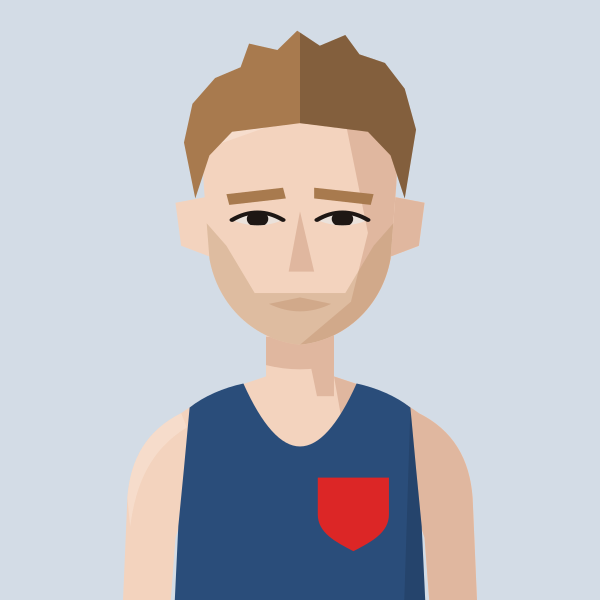
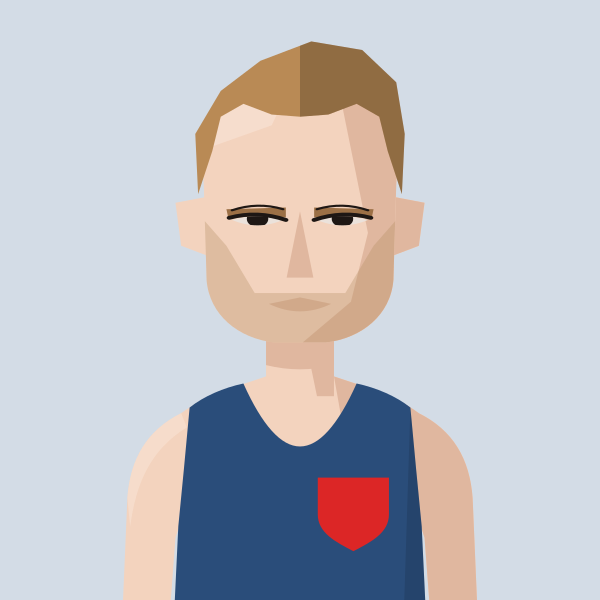
Redraw Frank Tickner portrait
Claude-Session: https://claude.ai/code/session_01MgmDWhFqnSSnP4iBLKXUZC

diff --git a/files/index.html b/files/index.html
@@ -887,7 +887,7 @@ const portraitFile=(name,club)=>{const k=normalizeNameForCompare(name||'').repla
 const portraitClubOf=(name,clubs)=>{for(const c of clubs||[]){if(c&&portraitFile(name,c))return c;}return null;}; /* first of these clubs we have a portrait for */
 // Athlete header figure: superstar portrait if we have one, else a grey runner in the club vest, else the plain vest icon
 // Changes whenever any portrait changes (set by tools/build_og.py), so browsers fetch fresh images instead of old cached ones
-const PORTRAIT_V='3c568e51';const PORTRAIT_WOMEN='abbey-brooke,abbie-bulbulian,adele-prince,aimee-hargreaves,aisling-ahern,alex-brown,alex-gandee,alex-marginean,alex-miller,alexa-parker,alexandra-barbour,alice-braham,alice-bridger-morales,alice-crane,alice-martin,alice-reed,alice-smith,alison-purnell,alison-thomson,amelia-pettitt,amy-clements,andrea-barber,anika-schwarze-chintapatla,anna-garnier,anna-garnier-hw,anna-sharp,annabel-hobday,annabelle-hadlow,anne-hegvold,annmarie-seymour,ava-mcandie,becky-briggs,bethan-goddard,bethanie-murray,bethany-brown,betsy-griffiths,billie-mcclosky,camilla-barden,caoimhe-nic-fhogartaigh,carolyne-baxter,catherine-bryson,catherine-eastham,catherine-kandie,cathy-ansell,charlotte-griffiths,chloe-beckett,chloe-tighe,chrissie-wellington,claire-grima,clara-pettit,clare-elms,clare-pauzers,dillan-quinn,dorchie-cockerell,eilidh-hide,elinor-skinner,eliza-grant,elizabeth-apsley,elizabeth-stavreski,ella-fennelly,ella-king-powrie,ella-may-hards,ella-newton,ellen-weir,ellie-brown,ellie-freeden,eloise-bull,emilie-arnoux,emily-barrett,emily-bradley,emily-lowery,emily-robbins,emma-bond,emma-gordon,emma-howsham,emma-lord,emma-rowland,estle-viljoen,evie-warren,felicity-cole,felicity-harrison,felicity-hayward,fi-maddocks,fiona-clark,fiona-de-mauny,florence-wiggins,gabby-collison,gabriel-reynolds,gemma-newport,genevieve-blanch,georgia-curry,georgie-bruinvels,georgie-fenn,georgie-furze,georgie-grgec,gina-galbraith,grace-leyland,grace-richardson,hannah-edwards,hannah-english,hayley-munn,hayley-munn-cc,heather-statham,heather-statham-cc,helen-alsop,helena-corbin,helena-keenan,holly-nixon,holly-pan,imogen-mackie,imogen-wolsey,iona-cousland,isabel-bradley,isabel-brinsden,isabel-hodder,isabelle-pickett,jennifer-nandi,jennifer-smith,jess-reed,jess-saunders,jess-winfield,jessica-davies,jessica-lowe,jodie-favell,jon-hobbs,josephine-rhodes,julia-bleasdale,julia-wedmore,juliet-hodder,juliette-clark,jurgita-levertaviciute,justine-lynch,karen-fenner,karen-xiang,karina-box,kate-axford,kate-williams,kathy-sharpe,katie-ellen-french,katie-good,katie-snowden,katy-hedgethorne,kitty-shepherd-cross,kristina-popadich,lara-bromilow,lara-mangan,laura-goodson,laura-miles,lauren-major,lea-adamson,lily-newton,lisa-bailey,lisa-thomas,lisa-thomas-hw,lizzie-goldie-scot,louise-cooper,lucy-jones,lucy-macalister,lucy-peters,lydia-blackmore,lydia-gallyer-barnett,maddie-mastrolonardo,maddy-whitman,maeve-kenny,margaret-coogan,martina-conner,mary-james,mary-setyabule,matilde-lomba,megan-gildea,mel-wilkins,mhairi-hall,mimi-corden-lloyd,molly-oconnor,molly-smith,monika-gajek,naomi-lenane,natalie-beadle,natalie-seymour,natasha-lodge,niamh-thompson,nicky-hayes,nicola-cartlidge,nicola-douglas,nikki-haines,nikki-sturzaker,nina-mills,olivia-papaioannou,olivia-stillman,orna-mcginley,pamela-mchutchon,patricia-walker,patrizia-gnoato,penny-oliver,rachel-brown,rebecca-barrow,rebekah-edgar,rosie-powell,ruby-carter,ruby-whyte-wilding,ruby-woolfe,sally-urquhart,sally-young,sally-young-slh,sam-whiting,samantha-munday,sarah-astin,sarah-dewhirst,sarah-grover,sarah-hanley,sarah-holt,sarah-murphy,sarah-palmer,sarah-palmer-ran,sarah-riceman,sarah-young,saron-haileselase,serena-carter,sophie-cowper,sophie-harris,sophie-hicks,sophie-tooley,stacey-ward,steph-hewitt,steph-mccall,steph-mccall-cc,steph-mccall-slh,steph-mitchell,suzanne-swaine,suze-spalding,suzie-harvey,suzy-whatmough,syreeta-stracey,teresa-murphy,tilly-heaton,tilly-heaton-bel,tish-jones,vic-cartwright,vicky-clarke,vicky-edwards,victoria-barthelmess,victoria-buck,vikki-filsell,zoe-doyle,zoe-macdonald,zuzana-nemeckova';const PORTRAIT_MEN='aaron-wilson,abdulla-elsadig,adam-leane,adrian-major,adrien-royer,alan-black,alan-mead,alex-brecker,alex-bruce-littlewood,alex-gutteridge,alex-harris,alex-howard,alex-janiaud,alex-lee,alex-lennon,alex-mills,alex-milne,alex-morales,alex-robinson,alex-yee,alexander-marks,amittai-ben-israel,andrew-cumine,andrew-green,andrew-penney,andrew-perfect,andrew-simms,andrew-warburton,andrius-jaksevicius,andy-coley-maud,andy-coley-maud-cc,andy-fyfe,andy-north,andy-paton,andy-weir,angus-butler,angus-lamb,anisse-ismaili,arlo-ludewick,arne-dumez,arthur-peel,ashley-goncalves,barnaby-day,barry-collins,barry-sawyer,ben-clarke,ben-coughlan,ben-harding,ben-hurley,ben-ireland,ben-millar,ben-paviour,ben-pearce,ben-racle,ben-revill,ben-reynolds,ben-scott,ben-toomer,benedict-whitby,benjamin-hilson,bernie-ford,bill-kerr,bill-weller,bill-weller-wal,bob-harrison,bob-holt,bob-lunnon,bob-rayman,bob-smith,bradley-courtney-pinn,brandon-dewar,brian-gorman,brian-wilder,caleb-hathaway,callum-stewart,cameron-dockerill,cameron-reilly,carl-delaney,charles-herrington,charlie-dabbs,charlie-dickinson,charlie-eastaugh,charlie-manning,charlie-pickett,charlie-rogers,charlie-sandison,charlie-walker,charlie-wyllie,che-compton,chris-busaileh,chris-busaileh-hhh,chris-greenwood,chris-keavey,chris-moss,chris-steer,chris-threadgold,chris-warren,christian-lee,christopher-parker,clive-gilby,clive-shippen,colin-high,colin-pearson,conall-mcnally,conall-whelan,craig-ruddy,dame-dibaba,dan-cliffe,dan-pettitt,daniel-shaw,daniel-wolff,darren-mead,dave-beard,dave-beaver,dave-clarke,dave-glassborow,dave-hill,dave-holt,dave-taylor,david-anderson,david-bowers,david-grima,david-north,david-ogden,david-symons,david-walsh,david-williams,deron-fagan,dick-piotrowski,dimos-evangelidis,dom-nolan,dominic-kiralyfi,don-anderson,don-faircloth,don-maclean,doug-maughan,duncan-rimmer,dylan-evans,dylan-mitchard,ed-brewer,ed-catmur,ed-gibson,ed-mallett,ed-prickett,eddie-herridge,eddie-jodrell,eddie-rolls,edward-chuck,eoin-brady,eoin-molloy,ethan-mccolgan,falilou-kebe,findlay-dyer,finn-johnson,fintan-pearce,frank-tickner,frank-ward,fred-paget,fred-slemeck,fred-stebbings,freddie-hessian,garret-lee,gary-ribbons,gary-ribbons-ee,gary-staines,gary-staines-bel,gavin-eccles,geoff-biscoe,geoff-jerwood,geoff-north,george-cotton,george-gathercole,george-jackson,george-loxton,george-mallett,george-ogden,gerry-adams,gerry-north,glen-keegan,gordon-pearce,graham-macky,grenville-tuck,harrison-hayman,harry-guttridge,hector-revill,henry-hart,henry-silverstein,hugo-hewitt,huw-lobb,ian-acreman,ian-crowe-wright,ian-ellwood,ian-harkness,indy-barnes,isaac-lutaya,isaac-parker,jack-brotchie,jack-dickson,jack-dormer,jack-hampshire,jack-harrison,jack-hobden,jack-kavanagh,jack-millar,jack-ramm,jack-woods,jacob-brockmann,jake-simmonds,james-bartram,james-blackwood,james-bowler,james-estall,james-ewing,james-fox,james-hancock,james-harvey,james-hoad,james-kelly,james-mcmullan,james-murray,james-nutt,james-preston,james-roberts,james-stockings,james-ward,james-wootton,jamie-crowe,jamie-parkinson,jared-martin,jean-paul-wright,jeff-cunningham,jeremy-dempsey,jermaine-mays,jerry-watson,jim-allchin,jim-rimmer,joachim-wolf,joe-english,joe-hartley,john-baker,john-bicourt,john-bromley,john-davies,john-dear,john-foss,john-foxall,john-gilbert,john-gladwin,john-hutchins,john-kendall,john-kimaiyo,john-lee,john-lethbridge,john-mather,john-moore,john-roberts,john-sanderson,john-snowden,john-stow,john-sullivan,john-thresher,jon-pepper,jon-pepper-slh,jon-phillips,jon-solly,jonathan-cocker,jonathan-collier,jonathan-cornish,jonathan-ratcliffe,jonathan-tipper,jonny-neville,jonny-scott,jordan-weaver,josh-mitchell,josh-snow,josh-trigwell,jules-gevers,junior-galley,justin-chaston,justin-reid,kassa-tadesse,keith-newton,ken-penney,ken-penney-cro,kevin-nash,kevin-quinn,kevin-sturman,kieran-barnes,kieran-white,knut-hegvold,knut-hegvold-bel,larry-ryan,lawrence-avery,lee-lintern,leo-coy,les-presland,les-presland-sur,lewis-lloyd,liam-burthem,lionel-mann,lloyd-kempson,luke-caldwell,macgregor-cox,mack-downie,malachi-byansi,marcello-bizio,marcelo-fortes,marco-mazzotta,mark-anderson,mark-miles,mark-sinclair,mark-tennyson,mark-waller,martin-dent,martin-duff,martin-lake,martin-lewington,martin-shore,mathew-speed,matt-chaston,matt-jones,matt-wood,matt-yates,matthew-edgar,matthew-houchell,matthew-thomas,matthew-varley,max-bloor,max-heyden,max-milarvie,max-nicholls,michael-baker,michael-mccarthy,mick-gowan,mick-woods,mike-beevor,mike-boyle,mike-cummings,mike-farmery,mike-fuller,mike-hayes,mike-kortenray,mike-nouch,mohammed-ismail,monty-hudson,morgan-roberts,nathan-visick,neil-chisholm,neil-phillips,neil-speaight,neil-wilson,nic-lukies,nick-acfield,nick-altmann,nick-bester,nick-bester-hhh,nick-buckle,nick-bundle,nick-goolab,nick-lightfoot,nick-morris,nick-torry,noah-fernandez,norman-stairs,oli-carrington,oliver-carrington,oliver-fox,oliver-reynolds,oliver-young,ollie-foote,ollie-garrod,olly-buck,owen-hind,paddy-roddy,pancho-panchev,paskar-owor,pat-newell,patrick-mcdougall,paul-calver,paul-cheetham,paul-evans,paul-freary,paul-magner,paul-pollock,paul-sanderson,paul-sanderson-wok,pete-carton,pete-gardner,peter-clarke,peter-giles,peter-giles-thh,peter-lighting,phil-carstairs,phil-sanders,phil-sesemann,phil-swinburn,phil-wicks,phil-woodford-smith,raj-paranandi,ralph-street,ranjit-bhatia,ray-foley,reece-edwards,rhys-boorman,rian-mccawley,richard-ashe,richard-giles,richard-henderson,richard-langley,richard-mcdowell,richard-ollington,richard-partridge,richard-sun,richard-ward,rob-armstrong,rob-kelly,rob-tuer,robert-elphick,robert-laing,robert-norville,robert-peacock,robert-sesemann,robin-boon,robin-hudson,roger-alsop,roger-alsop-bel,roger-hackney,ron-clark,ron-linstead,ronan-tanguy,rory-mcmahon,rory-orsborn,ross-braden,ross-christie,rowan-board,rowan-crichton,russell-dessaix-chin,ryan-hickey,ryan-mccallister,sam-bramwell,sam-charlton,sam-gebreselassie,sam-haughian,sam-peters,sam-sommerville,sam-tyas,samuel-dames,samuel-wilcock,sean-cordon,sebastian-anthony,simon-baines,simon-coombes,simon-coppard,simon-fairbrother,simon-holmes,simon-rayner,simon-rayner-hw,simon-wade,simon-wade-hhh,simon-waterhouse,simon-williams,simon-wurr,sonny-nicoll,spencer-barden,stephen-mcleod,stephen-sharp,steve-badgery,steve-badgery-mit,steve-gardner,steve-jones,steve-smythe,steve-smythe-hhh,stuart-beaney,stuart-major,stuart-major-thh,stuart-mccallum,stuart-paton,terry-booth,thomas-dugre,thomas-gandee,thomas-gardner,thomas-renshaw,tim-alexander,tim-eglen,tim-lawrence,tim-watson,toby-cooke,toby-fletcher,tom-austin,tom-cheetham,tom-conlon,tom-davies,tom-gifford,tom-higgs,tom-jervis,tom-lole,tom-south,tom-thornley,tommy-taylor,tony-binda,tony-fairclough,tony-harran,trevor-hart,trevor-williams,valdis-pauzers,valentin-rigori,vic-maughan,wayne-oxborough,will-cockerell,will-lewis,will-marshall,will-scott,will-stockley,william-gardner,yacin-yusuf,zach-nolan';
+const PORTRAIT_V='0ffaf373';const PORTRAIT_WOMEN='abbey-brooke,abbie-bulbulian,adele-prince,aimee-hargreaves,aisling-ahern,alex-brown,alex-gandee,alex-marginean,alex-miller,alexa-parker,alexandra-barbour,alice-braham,alice-bridger-morales,alice-crane,alice-martin,alice-reed,alice-smith,alison-purnell,alison-thomson,amelia-pettitt,amy-clements,andrea-barber,anika-schwarze-chintapatla,anna-garnier,anna-garnier-hw,anna-sharp,annabel-hobday,annabelle-hadlow,anne-hegvold,annmarie-seymour,ava-mcandie,becky-briggs,bethan-goddard,bethanie-murray,bethany-brown,betsy-griffiths,billie-mcclosky,camilla-barden,caoimhe-nic-fhogartaigh,carolyne-baxter,catherine-bryson,catherine-eastham,catherine-kandie,cathy-ansell,charlotte-griffiths,chloe-beckett,chloe-tighe,chrissie-wellington,claire-grima,clara-pettit,clare-elms,clare-pauzers,dillan-quinn,dorchie-cockerell,eilidh-hide,elinor-skinner,eliza-grant,elizabeth-apsley,elizabeth-stavreski,ella-fennelly,ella-king-powrie,ella-may-hards,ella-newton,ellen-weir,ellie-brown,ellie-freeden,eloise-bull,emilie-arnoux,emily-barrett,emily-bradley,emily-lowery,emily-robbins,emma-bond,emma-gordon,emma-howsham,emma-lord,emma-rowland,estle-viljoen,evie-warren,felicity-cole,felicity-harrison,felicity-hayward,fi-maddocks,fiona-clark,fiona-de-mauny,florence-wiggins,gabby-collison,gabriel-reynolds,gemma-newport,genevieve-blanch,georgia-curry,georgie-bruinvels,georgie-fenn,georgie-furze,georgie-grgec,gina-galbraith,grace-leyland,grace-richardson,hannah-edwards,hannah-english,hayley-munn,hayley-munn-cc,heather-statham,heather-statham-cc,helen-alsop,helena-corbin,helena-keenan,holly-nixon,holly-pan,imogen-mackie,imogen-wolsey,iona-cousland,isabel-bradley,isabel-brinsden,isabel-hodder,isabelle-pickett,jennifer-nandi,jennifer-smith,jess-reed,jess-saunders,jess-winfield,jessica-davies,jessica-lowe,jodie-favell,jon-hobbs,josephine-rhodes,julia-bleasdale,julia-wedmore,juliet-hodder,juliette-clark,jurgita-levertaviciute,justine-lynch,karen-fenner,karen-xiang,karina-box,kate-axford,kate-williams,kathy-sharpe,katie-ellen-french,katie-good,katie-snowden,katy-hedgethorne,kitty-shepherd-cross,kristina-popadich,lara-bromilow,lara-mangan,laura-goodson,laura-miles,lauren-major,lea-adamson,lily-newton,lisa-bailey,lisa-thomas,lisa-thomas-hw,lizzie-goldie-scot,louise-cooper,lucy-jones,lucy-macalister,lucy-peters,lydia-blackmore,lydia-gallyer-barnett,maddie-mastrolonardo,maddy-whitman,maeve-kenny,margaret-coogan,martina-conner,mary-james,mary-setyabule,matilde-lomba,megan-gildea,mel-wilkins,mhairi-hall,mimi-corden-lloyd,molly-oconnor,molly-smith,monika-gajek,naomi-lenane,natalie-beadle,natalie-seymour,natasha-lodge,niamh-thompson,nicky-hayes,nicola-cartlidge,nicola-douglas,nikki-haines,nikki-sturzaker,nina-mills,olivia-papaioannou,olivia-stillman,orna-mcginley,pamela-mchutchon,patricia-walker,patrizia-gnoato,penny-oliver,rachel-brown,rebecca-barrow,rebekah-edgar,rosie-powell,ruby-carter,ruby-whyte-wilding,ruby-woolfe,sally-urquhart,sally-young,sally-young-slh,sam-whiting,samantha-munday,sarah-astin,sarah-dewhirst,sarah-grover,sarah-hanley,sarah-holt,sarah-murphy,sarah-palmer,sarah-palmer-ran,sarah-riceman,sarah-young,saron-haileselase,serena-carter,sophie-cowper,sophie-harris,sophie-hicks,sophie-tooley,stacey-ward,steph-hewitt,steph-mccall,steph-mccall-cc,steph-mccall-slh,steph-mitchell,suzanne-swaine,suze-spalding,suzie-harvey,suzy-whatmough,syreeta-stracey,teresa-murphy,tilly-heaton,tilly-heaton-bel,tish-jones,vic-cartwright,vicky-clarke,vicky-edwards,victoria-barthelmess,victoria-buck,vikki-filsell,zoe-doyle,zoe-macdonald,zuzana-nemeckova';const PORTRAIT_MEN='aaron-wilson,abdulla-elsadig,adam-leane,adrian-major,adrien-royer,alan-black,alan-mead,alex-brecker,alex-bruce-littlewood,alex-gutteridge,alex-harris,alex-howard,alex-janiaud,alex-lee,alex-lennon,alex-mills,alex-milne,alex-morales,alex-robinson,alex-yee,alexander-marks,amittai-ben-israel,andrew-cumine,andrew-green,andrew-penney,andrew-perfect,andrew-simms,andrew-warburton,andrius-jaksevicius,andy-coley-maud,andy-coley-maud-cc,andy-fyfe,andy-north,andy-paton,andy-weir,angus-butler,angus-lamb,anisse-ismaili,arlo-ludewick,arne-dumez,arthur-peel,ashley-goncalves,barnaby-day,barry-collins,barry-sawyer,ben-clarke,ben-coughlan,ben-harding,ben-hurley,ben-ireland,ben-millar,ben-paviour,ben-pearce,ben-racle,ben-revill,ben-reynolds,ben-scott,ben-toomer,benedict-whitby,benjamin-hilson,bernie-ford,bill-kerr,bill-weller,bill-weller-wal,bob-harrison,bob-holt,bob-lunnon,bob-rayman,bob-smith,bradley-courtney-pinn,brandon-dewar,brian-gorman,brian-wilder,caleb-hathaway,callum-stewart,cameron-dockerill,cameron-reilly,carl-delaney,charles-herrington,charlie-dabbs,charlie-dickinson,charlie-eastaugh,charlie-manning,charlie-pickett,charlie-rogers,charlie-sandison,charlie-walker,charlie-wyllie,che-compton,chris-busaileh,chris-busaileh-hhh,chris-greenwood,chris-keavey,chris-moss,chris-steer,chris-threadgold,chris-warren,christian-lee,christopher-parker,clive-gilby,clive-shippen,colin-high,colin-pearson,conall-mcnally,conall-whelan,craig-ruddy,dame-dibaba,dan-cliffe,dan-pettitt,daniel-shaw,daniel-wolff,darren-mead,dave-beard,dave-beaver,dave-clarke,dave-glassborow,dave-hill,dave-holt,dave-taylor,david-anderson,david-bowers,david-grima,david-north,david-ogden,david-symons,david-walsh,david-williams,deron-fagan,dick-piotrowski,dimos-evangelidis,dom-nolan,dominic-kiralyfi,don-anderson,don-faircloth,don-maclean,doug-maughan,duncan-rimmer,dylan-evans,dylan-mitchard,ed-brewer,ed-catmur,ed-gibson,ed-mallett,ed-prickett,eddie-herridge,eddie-jodrell,eddie-rolls,edward-chuck,eoin-brady,eoin-molloy,ethan-mccolgan,falilou-kebe,findlay-dyer,finn-johnson,fintan-pearce,frank-tickner,frank-ward,fred-paget,fred-slemeck,fred-stebbings,freddie-hessian,garret-lee,gary-ribbons,gary-ribbons-ee,gary-staines,gary-staines-bel,gavin-eccles,geoff-biscoe,geoff-jerwood,geoff-north,george-cotton,george-gathercole,george-jackson,george-loxton,george-mallett,george-ogden,gerry-adams,gerry-north,glen-keegan,gordon-pearce,graham-macky,grenville-tuck,harrison-hayman,harry-guttridge,hector-revill,henry-hart,henry-silverstein,hugo-hewitt,huw-lobb,ian-acreman,ian-crowe-wright,ian-ellwood,ian-harkness,indy-barnes,isaac-lutaya,isaac-parker,jack-brotchie,jack-dickson,jack-dormer,jack-hampshire,jack-harrison,jack-hobden,jack-kavanagh,jack-millar,jack-ramm,jack-woods,jacob-brockmann,jake-simmonds,james-bartram,james-blackwood,james-bowler,james-estall,james-ewing,james-fox,james-hancock,james-harvey,james-hoad,james-kelly,james-mcmullan,james-murray,james-nutt,james-preston,james-roberts,james-stockings,james-ward,james-wootton,jamie-crowe,jamie-parkinson,jared-martin,jean-paul-wright,jeff-cunningham,jeremy-dempsey,jermaine-mays,jerry-watson,jim-allchin,jim-rimmer,joachim-wolf,joe-english,joe-hartley,john-baker,john-bicourt,john-bromley,john-davies,john-dear,john-foss,john-foxall,john-gilbert,john-gladwin,john-hutchins,john-kendall,john-kimaiyo,john-lee,john-lethbridge,john-mather,john-moore,john-roberts,john-sanderson,john-snowden,john-stow,john-sullivan,john-thresher,jon-pepper,jon-pepper-slh,jon-phillips,jon-solly,jonathan-cocker,jonathan-collier,jonathan-cornish,jonathan-ratcliffe,jonathan-tipper,jonny-neville,jonny-scott,jordan-weaver,josh-mitchell,josh-snow,josh-trigwell,jules-gevers,junior-galley,justin-chaston,justin-reid,kassa-tadesse,keith-newton,ken-penney,ken-penney-cro,kevin-nash,kevin-quinn,kevin-sturman,kieran-barnes,kieran-white,knut-hegvold,knut-hegvold-bel,larry-ryan,lawrence-avery,lee-lintern,leo-coy,les-presland,les-presland-sur,lewis-lloyd,liam-burthem,lionel-mann,lloyd-kempson,luke-caldwell,macgregor-cox,mack-downie,malachi-byansi,marcello-bizio,marcelo-fortes,marco-mazzotta,mark-anderson,mark-miles,mark-sinclair,mark-tennyson,mark-waller,martin-dent,martin-duff,martin-lake,martin-lewington,martin-shore,mathew-speed,matt-chaston,matt-jones,matt-wood,matt-yates,matthew-edgar,matthew-houchell,matthew-thomas,matthew-varley,max-bloor,max-heyden,max-milarvie,max-nicholls,michael-baker,michael-mccarthy,mick-gowan,mick-woods,mike-beevor,mike-boyle,mike-cummings,mike-farmery,mike-fuller,mike-hayes,mike-kortenray,mike-nouch,mohammed-ismail,monty-hudson,morgan-roberts,nathan-visick,neil-chisholm,neil-phillips,neil-speaight,neil-wilson,nic-lukies,nick-acfield,nick-altmann,nick-bester,nick-bester-hhh,nick-buckle,nick-bundle,nick-goolab,nick-lightfoot,nick-morris,nick-torry,noah-fernandez,norman-stairs,oli-carrington,oliver-carrington,oliver-fox,oliver-reynolds,oliver-young,ollie-foote,ollie-garrod,olly-buck,owen-hind,paddy-roddy,pancho-panchev,paskar-owor,pat-newell,patrick-mcdougall,paul-calver,paul-cheetham,paul-evans,paul-freary,paul-magner,paul-pollock,paul-sanderson,paul-sanderson-wok,pete-carton,pete-gardner,peter-clarke,peter-giles,peter-giles-thh,peter-lighting,phil-carstairs,phil-sanders,phil-sesemann,phil-swinburn,phil-wicks,phil-woodford-smith,raj-paranandi,ralph-street,ranjit-bhatia,ray-foley,reece-edwards,rhys-boorman,rian-mccawley,richard-ashe,richard-giles,richard-henderson,richard-langley,richard-mcdowell,richard-ollington,richard-partridge,richard-sun,richard-ward,rob-armstrong,rob-kelly,rob-tuer,robert-elphick,robert-laing,robert-norville,robert-peacock,robert-sesemann,robin-boon,robin-hudson,roger-alsop,roger-alsop-bel,roger-hackney,ron-clark,ron-linstead,ronan-tanguy,rory-mcmahon,rory-orsborn,ross-braden,ross-christie,rowan-board,rowan-crichton,russell-dessaix-chin,ryan-hickey,ryan-mccallister,sam-bramwell,sam-charlton,sam-gebreselassie,sam-haughian,sam-peters,sam-sommerville,sam-tyas,samuel-dames,samuel-wilcock,sean-cordon,sebastian-anthony,simon-baines,simon-coombes,simon-coppard,simon-fairbrother,simon-holmes,simon-rayner,simon-rayner-hw,simon-wade,simon-wade-hhh,simon-waterhouse,simon-williams,simon-wurr,sonny-nicoll,spencer-barden,stephen-mcleod,stephen-sharp,steve-badgery,steve-badgery-mit,steve-gardner,steve-jones,steve-smythe,steve-smythe-hhh,stuart-beaney,stuart-major,stuart-major-thh,stuart-mccallum,stuart-paton,terry-booth,thomas-dugre,thomas-gandee,thomas-gardner,thomas-renshaw,tim-alexander,tim-eglen,tim-lawrence,tim-watson,toby-cooke,toby-fletcher,tom-austin,tom-cheetham,tom-conlon,tom-davies,tom-gifford,tom-higgs,tom-jervis,tom-lole,tom-south,tom-thornley,tommy-taylor,tony-binda,tony-fairclough,tony-harran,trevor-hart,trevor-williams,valdis-pauzers,valentin-rigori,vic-maughan,wayne-oxborough,will-cockerell,will-lewis,will-marshall,will-scott,will-stockley,william-gardner,yacin-yusuf,zach-nolan';
 // Runners whose dog pops up on their own profile page (a -dog.svg version of their portrait)
 const PROFILE_DOGS=new Set(['john-sanderson','penny-oliver','james-hancock','angus-butler']);
 const AthletePortrait=({name,club,w,fill,onClick,blink})=>{const[failed,setFailed]=useState(false);const file=portraitFile(name,club);const src0=file?`/portraits/athletes/${file}.svg?v=${PORTRAIT_V}`:PORTRAIT_CLUBS.has(club)?`/portraits/clubs/${club.replace(/\//g,'').replace(/&/g,'and')}.svg?v=${PORTRAIT_V}`:null;const blinkSrc=useBlinkSrc(file?(PROFILE_DOGS.has(file)?`/portraits/athletes/${file}-dog.svg?v=${PORTRAIT_V}`:src0):null,!!blink);const src=blinkSrc||src0;if(!src||failed)return<div onClick={onClick} className={onClick?'cursor-pointer':''}><ClubShield club={club} size={w}/></div>;const h=Math.round(w*148/126),ih=Math.round(w*1.4);if(fill)return<div onClick={onClick} className="cursor-pointer" style={{alignSelf:'stretch',minHeight:h,aspectRatio:'126 / 148',flexShrink:0,position:'relative',borderRadius:4,overflow:'hidden'}}><img src={src} alt={file?`Portrait of ${name.replace(/\s*\([^)]*\)$/,'')}`:`Runner in ${CLUBS[club]?.name||club} vest`} style={{position:'absolute',top:0,left:0,display:'block',width:'100%',height:'auto'}} onError={()=>setFailed(true)}/></div>;return<div style={{width:w,height:h,borderRadius:4,overflow:'hidden',flexShrink:0}}><img src={src} alt={file?`Portrait of ${name.replace(/\s*\([^)]*\)$/,'')}`:`Runner in ${CLUBS[club]?.name||club} vest`} width={w} height={ih} style={{display:'block',width:w,height:ih}} onError={()=>setFailed(true)}/></div>;};

diff --git a/tools/gen_portraits.py b/tools/gen_portraits.py
@@ -2156,4 +2156,6 @@ def _munn(kit):
     return nose(softbrows(eyes(figure(kit, skin=1, hair="lowbun", hair_colour="#3A2620", brow_colour="#2A1D16", jaw="long", rosy=True), None, 0), 2.4, 1.6), 1.0, 1.15)
 save("hayley-munn", _munn("HHH"))
 save("hayley-munn-cc", _munn("C/C"))
+# Frank Tickner (KEN), Oct 2026 redraw from a 2013 start-line photo: sandy hair receding at the temples with a little lift, dead-straight brows right down on hooded eyes, square jaw, light stubble
+save("frank-tickner", nose(brows(straightbrows(eyes(figure("KEN", skin=1, hair="quiffrecede", hair_colour="#B98A55", brow_colour="#9C7046", facial="stubble", facial_colour="#B08A5E", jaw="square"), "hooded", 0)), 0, 0, 6), 1.05, 1.1))
 export_site()
